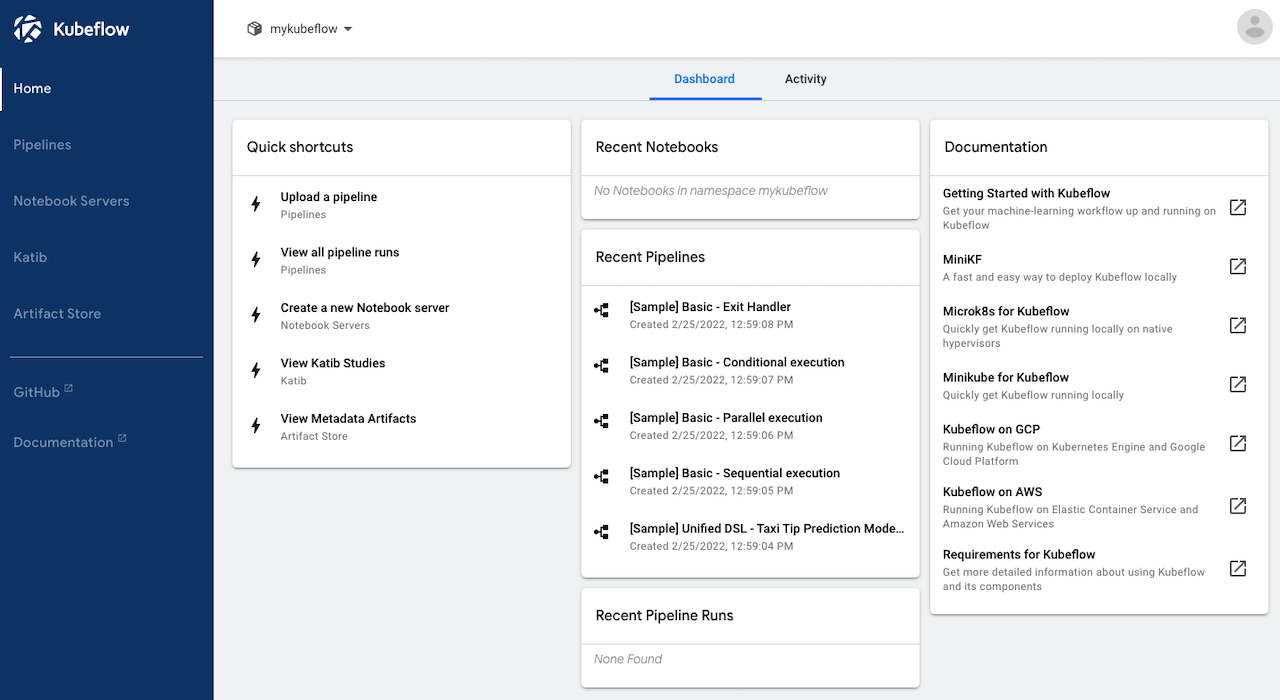
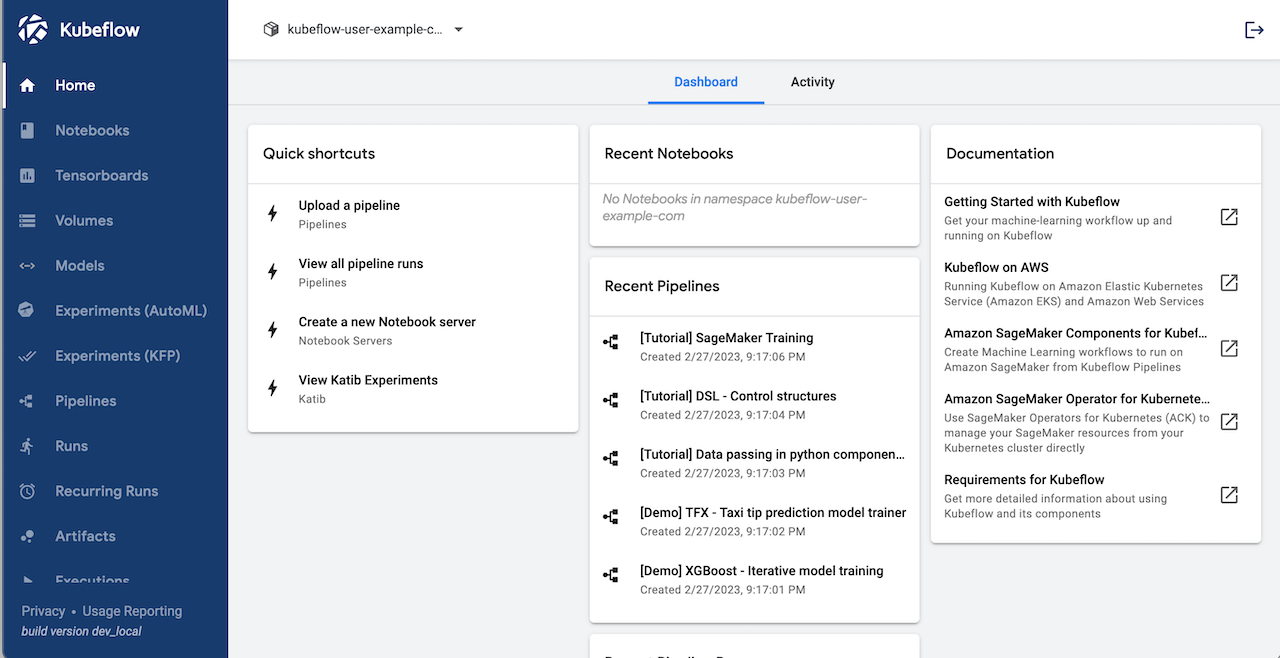
fix(mlops): improve the kubeflow install steps (#259)
* docs(mlops): replace kubeflow-arch diagram

* fix(mlops): update kubeflow setup config

* docs(mlops): update kubeflow setup guide

diff --git a/examples/mlops/README.md b/examples/mlops/README.md
@@ -3,7 +3,7 @@
 # Machine Learning
 Machine learning is a part of artificial intelligence (AI) and computer science which focuses on the use of data and algorithms to imitate the way that humans learn, gradually improving its accuracy. Machine learning is an important component of the growing field of data science. Through the use of statistical methods, algorithms are trained to make classifications or predictions, and to uncover key insights in data mining projects. These insights subsequently drive decision making within applications and businesses, ideally impacting key growth metrics. As big data continues to expand and grow, the market demand for data scientists will increase. They will be required to help identify the most relevant business questions and the data to answer them. Machine learning algorithms are typically created using frameworks that accelerate solution development, such as TensorFlow and PyTorch.
 
-# Kubeflow
+## Kubeflow
 [Kubeflow](https://www.kubeflow.org/) is an open-source software project that provides a simple, portable, and scalable way of running Machine Learning workloads on Kubernetes. Below is the kubeflow platform diagram.
 
 ![kubeflow-platform-overview](../../images/kubeflow-platform-overview.png)
@@ -11,7 +11,11 @@ Machine learning is a part of artificial intelligence (AI) and computer science 
 
 ## Setup
 ### Prerequisites
-This module requires *yq* which is a lightweight command-line YAML, JSON, and XML processor. We will use *yq* to update the settings in the kubeflow configuration file. To install *yq*, follow the [installation guide](https://github.com/mikefarah/yq#install) before you begin. And if you don't have the terraform and kubernetes tools in your environment, go to the main [page](https://github.com/Young-ook/terraform-aws-eks) of this repository and follow the installation instructions.
+This module requires *yq* which is a lightweight command-line YAML, JSON, and XML processor. We will use *yq* to update the settings in the kubeflow configuration file. To install *yq*, follow the [installation guide](https://github.com/mikefarah/yq#install) before you begin. And this module requires also, [kustomize](https://kustomize.io/) for installing kubeflow using manifests. Kustomize is a simple tool lets you customize raw, template-free YAML files for multiple purposes, leaving the original YAML untouched and usable as is. Please follow the [installation guide](https://kubectl.docs.kubernetes.io/installation/kustomize/binaries/) from the official website before moving to the next steps. And make sure you have installed terraform amd kubectl in your environment if you don't have the terraform and kubernetes tools. Go to the main [page](https://github.com/Young-ook/terraform-aws-eks) of this repository and follow the installation instructions.
+
+* yq
+* kubectl
+* terraform
 
 ### Download
 Download this example on your workspace
@@ -21,6 +25,16 @@ cd terraform-aws-eks/examples/mlops
 ```
 
 Then you are in **mlops** directory under your current workspace. There is an exmaple that shows how to use terraform configurations to create and manage an EKS cluster and Addon utilities on your AWS account. In this example, we will install Kubeflow on Amazon EKS, run a single-node training and inference using TensorFlow.
+
+And clone the awslabs/kubeflow-manifests and the kubeflow/manifests repositories and check out the release branches of your choosing. Substitute the value for KUBEFLOW_RELEASE_VERSION(e.g. v1.6.1) and AWS_RELEASE_VERSION(e.g. v1.6.1-aws-b1.0.0) with the tag or branch you want to use below. Read more about releases and versioning if you are unsure about what these values should be.
+
+```
+export KUBEFLOW_RELEASE_VERSION=v1.6.1
+export AWS_RELEASE_VERSION=v1.6.1-aws-b1.0.0
+git clone https://github.com/awslabs/kubeflow-manifests.git && cd kubeflow-manifests
+git checkout ${AWS_RELEASE_VERSION}
+git clone --branch ${KUBEFLOW_RELEASE_VERSION} https://github.com/kubeflow/manifests.git upstream && cd -
+```
 
 Run terraform:
 ```
@@ -36,43 +50,24 @@ terraform apply -var-file fixture.tc1.tfvars
 ### Update kubeconfig
 We need to get kubernetes config file for access the cluster that we've made using terraform. After terraform apply, you will see the bash command on the outputs. For more details, please refer to the [user guide](https://github.com/Young-ook/terraform-aws-eks#generate-kubernetes-config).
 
-### Install kfctl
-Download **kfctl**, the command-line tool for Kubeflow, and let it run anywhere on your system.
-
-#### macOS
-```
-curl --location "https://github.com/kubeflow/kfctl/releases/download/v1.0.2/kfctl_v1.0.2-0-ga476281_darwin.tar.gz" | tar zx -C /tmp
-sudo mv -v /tmp/kfctl /usr/local/bin
-```
-#### Linux
-```
-curl --location "https://github.com/kubeflow/kfctl/releases/download/v1.0.2/kfctl_v1.0.2-0-ga476281_linux.tar.gz" | tar xz -C /tmp
-sudo mv -v /tmp/kfctl /usr/local/bin
-```
-
-To install an alternate or newer version, visit the official project [repository](https://github.com/kubeflow/kfctl/tags) and download the archive what you want.
-
-### Deploy Kubeflow
-You will find *install* script on your current workspace after terraform apply is complete. That is a bash script to install the kubeflow to the EKS cluster.
-```
-bash kfinst.sh
-```
-
-Run below command to check the status
+### Access Kubeflow dashboard
+Run below command to check the status.
 ```
 kubectl -n kubeflow get all
 ```
 
-### Access Kubeflow dashboard
-Use port-forward to access Kubeflow dashboard.
+Everything looks good, move forward to the next step. Run port-forward commend to access Kubeflow dashboard:
 ```
 kubectl port-forward svc/istio-ingressgateway -n istio-system 8080:80
 ```
 
-Open `localhost:8080` in your favorite browswer. Click on *Start Setup* and then specify the namespace as *mykubeflow*
-![kubeflow-setup-workspace](../../images/kubeflow-setup-workspace.png)
+Open `localhost:8080` in your favorite browswer. You will see the login page.
 
+**[WARNING]** In both options, we use a default email (`user@example.com`) and password (`12341234`). For any production Kubeflow deployment, you should change the default password by following the relevant section.
+
+![kubeflow-dex-login](../../images/kubeflow-dex-login.png)
 ![kubeflow-dashboard-first-look](../../images/kubeflow-dashboard-first-look.png)
+![kubeflow-pipelines-xgboost](../../images/kubeflow-pipelines-xgboost.png)
 
 ### Kubeflow fairing
 Kubeflow fairing streamlines the process of building, training, and deploying machine learning (ML) training jobs in a hybrid cloud environment. By using Kubeflow fairing and adding a few lines of code, you can run your ML training job locally or in the cloud, directly from Python code or a Jupyter notebook. If you want to run hands-on lab about kubeflow fairing with AWS, please follow [the instructions](https://www.eksworkshop.com/advanced/420_kubeflow/fairing/).
@@ -81,12 +76,7 @@ Kubeflow fairing streamlines the process of building, training, and deploying ma
 - [MNIST on Kubeflow](./apps/README.md#mnist-on-kubeflow)
 
 ## Clean up
-Undeploy kubeflow from your cluster:
-```
-bash kfuninst.sh
-```
-
-To destroy all infrastrcuture, run terraform:
+To destroy all resources, run terraform:
 ```
 terraform destroy
 ```
@@ -103,6 +93,7 @@ terraform destroy -var-file fixture.tc1.tfvars
 
 # Additional Resources
 ## Kubeflow on AWS
-- [Kubeflow on AWS](https://github.com/awslabs/kubeflow-manifests)
+- [Kubeflow on AWS](https://awslabs.github.io/kubeflow-manifests/docs/about/)
+- [Enabling hybrid ML workflows on Amazon EKS and Amazon SageMaker with one-click Kubeflow on AWS deployment](https://aws.amazon.com/blogs/machine-learning/enabling-hybrid-ml-workflows-on-amazon-eks-and-amazon-sagemaker-with-one-click-kubeflow-on-aws-deployment/)
 ## Data Platform
 - [Building a Modern Data Platform on Amazon EKS](https://youtu.be/7AHuMNqbR7o)
